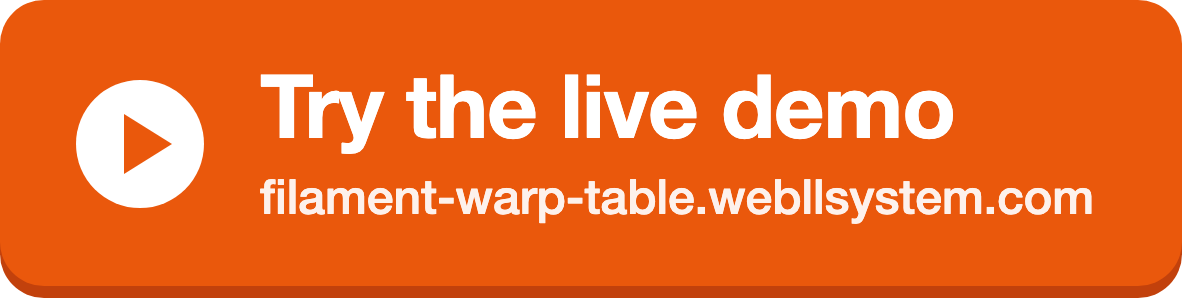
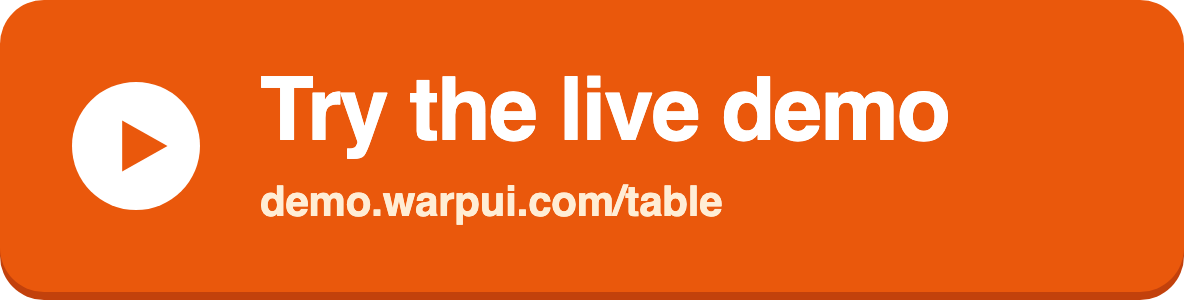
The live demo moved to demo.warpui.com/table

diff --git a/README.md b/README.md
@@ -4,11 +4,11 @@
 
 **Fast Filament tables for large pages: the rows are drawn on a `<canvas>`, with a sticky header and ledger-style multi-level rows that the native table does not have, while everything else behaves exactly like the native table.**
 
-<a href="https://filament-warp-table.webllsystem.com/"><img src="https://raw.githubusercontent.com/qalainau-labs/filament-warp-table-docs/main/art/live-demo.png" alt="Try the live demo: filament-warp-table.webllsystem.com" width="592"></a>
+<a href="https://demo.warpui.com/table"><img src="https://raw.githubusercontent.com/qalainau-labs/filament-warp-table-docs/main/art/live-demo.png" alt="Try the live demo: demo.warpui.com/table" width="592"></a>
 
-Edit cells, sort, group, select and compare with the native table side by side at **[filament-warp-table.webllsystem.com](https://filament-warp-table.webllsystem.com/)**. No sign-up needed; the data is reset every hour.
+Edit cells, sort, group, select and compare with the native table side by side at **[demo.warpui.com/table](https://demo.warpui.com/table)**. No sign-up needed; the data is reset every hour.
 
-<a href="https://filament-warp-table.webllsystem.com/"><img src="https://raw.githubusercontent.com/qalainau-labs/filament-warp-table-docs/main/art/native-vs-warp.gif" alt="The same 1,000-row table loading as the native Filament table and as Warp Table"></a>
+<a href="https://demo.warpui.com/table"><img src="https://raw.githubusercontent.com/qalainau-labs/filament-warp-table-docs/main/art/native-vs-warp.gif" alt="The same 1,000-row table loading as the native Filament table and as Warp Table"></a>
 
 *The same 1,000-row table with editable columns, loaded side by side from an empty cache: the native table on the left, Warp Table on the right (recorded on the demo's Speed Lab page).*
 
